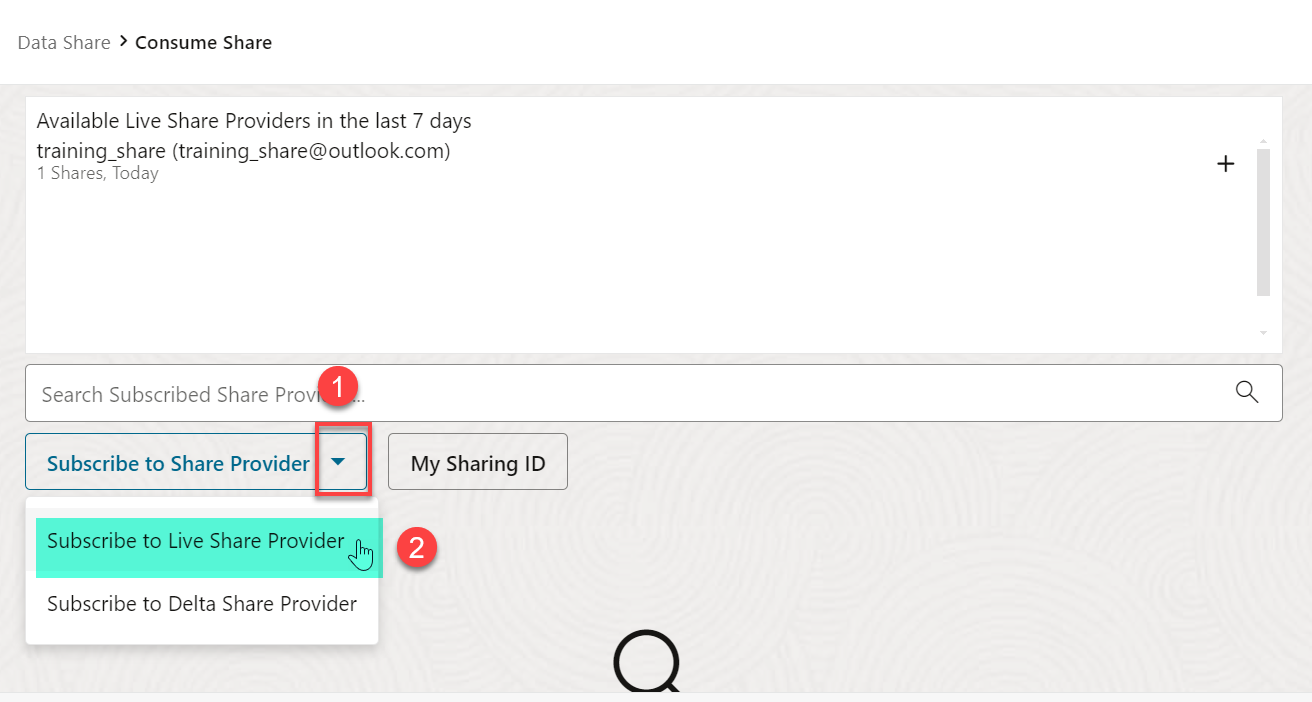
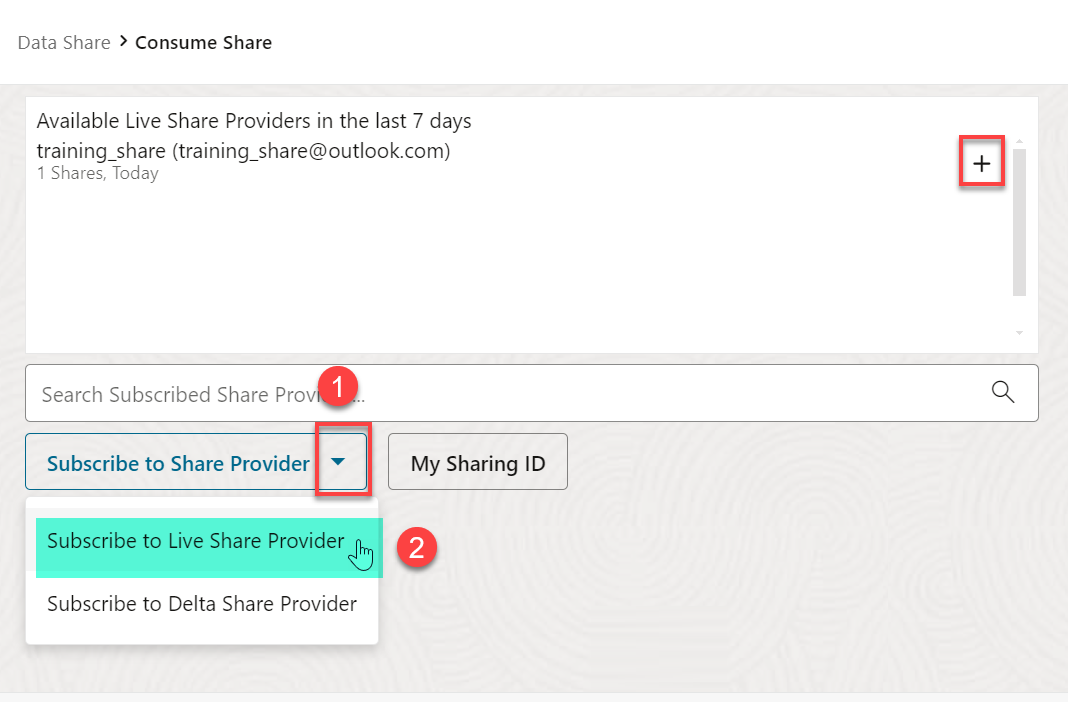
Anne's feedback

diff --git a/shared/adw-data-lake/setup-live-data-sharing-db-actions/consume-share/consume-share.md b/shared/adw-data-lake/setup-live-data-sharing-db-actions/consume-share/consume-share.md
@@ -37,11 +37,13 @@ Live data shared with you through data sharing is not automatically available fo
 
     ![click the consume share tile.](images/click-consume-share.png)
 
-2. Click the **+ Subscribe to Share Provider** drop-down list, and then click   the **Subscribe to Live Share Provider** option.
+2. Click the **+ Subscribe to Share Provider** drop-down list, and then click the **Subscribe to Live Share Provider** option.
 
     ![click Subscribe to Share Provider.](images/click-subscribe-provider.png)
 
     The **Subscribe to Share Provider** wizard is displayed.
+
+    >**Note:** The **Available Live Share Providers in the last 7 Days** section displays the list of available Live Share Providers in the last 7 days. You can click the **+** sign to subscribe to a Live Share.
 
 3. On the **Provider Settings** page 1 of the wizard, provide the following information:
 
@@ -66,17 +68,19 @@ Live data shared with you through data sharing is not automatically available fo
 
     ![The Link Cloud Object page is displayed.](images/link-data-page.png)
 
-## Task 3: Create an External Table over the Shared Table
+## Task 3: Create a View over the Shared Table
+
+In this task, you create a view based on the **`CUSTOMER_CONTACT`** table that was included in the live data share. A view is a logical table based on one or more tables or views. A view contains no data itself. The tables upon which a view is based are called base tables.
 
 1. Click the drop-down list and select the **`TRAINING_SHARE`**, if needed. You might need to click the **Refresh** icon to display the **`TRAINING_SHARE`**. Drill-down on the **`TRAINING_SHARE`** data share node to display the objects in it. Drag and drop the **`CUSTOMER_CONTACT`** shared table to add it to the data link job.
 
     ![Drag and drop the shared table onto the canvas.](images/drag-and-drop-share.png)
 
-2. The shared table is added to the data link job. When you run this job, a new **`CUSTOMER_CONTACT`** external table will be created on top of the **`CUSTOMER_CONTACT`** table that was shared with you. Before you create the external table, change its name from **`CUSTOMER_CONTACT`** to **`CUSTOMER_CONTACT_SHARE`**. Click the **Settings** icon (pencil).
+2. The shared table is added to the data link job. When you run this job, a new **`CUSTOMER_CONTACT`** view will be created on top of the **`CUSTOMER_CONTACT`** table that was shared with you. Before you create the view, change its name from **`CUSTOMER_CONTACT`** to **`CUSTOMER_CONTACT_SHARE`**. Click the **Settings** icon (pencil).
 
     ![The Link Cloud Object page is displayed.](images/shared-table-added.png)
 
-3. In the **Link Data from Cloud Store Location SHARE_PROVIDER.CUSTOMER\_CONTACT** dialog box, change the name of the external table that will be generated to **`CUSTOMER_CONTACT_SHARE`**, and then click **Close**.
+3. In the **Link Data from Cloud Store Location SHARE_PROVIDER.CUSTOMER\_CONTACT** dialog box, change the name of the view that will be generated to **`CUSTOMER_CONTACT_SHARE`**, and then click **Close**.
 
     ![Change the table name.](images/change-table-name.png)
 
@@ -84,7 +88,7 @@ Live data shared with you through data sharing is not automatically available fo
 
     ![The changed table name is displayed.](images/table-name-changed.png)
 
-4. Click **Start**. A **Start Link from Cloud Store** dialog box is displayed. Click **Run**. When the job completes successfully, a link icon is displayed. The **`CUSTOMER_CONTACT_SHARE`** external table is created.
+4. Click **Start**. A **Start Link from Cloud Store** dialog box is displayed. Click **Run**. When the job completes successfully, a link icon is displayed. The **`CUSTOMER_CONTACT_SHARE`** view is created.
 
     ![The link job is completed.](images/link-job-complete.png)
 

diff --git a/shared/adw-data-lake/setup-live-data-sharing-db-actions/create-share/create-share.md b/shared/adw-data-lake/setup-live-data-sharing-db-actions/create-share/create-share.md
@@ -12,7 +12,7 @@ Estimated Time: 15 minutes
 
 In this lab, you will:
 
-* Create a provider id that enables recipients on to identify you.
+* Create a provider id that enables recipients to identify you.
 * Create a new data share as the **`share_provider`** user.
 * Add the **`customer_contact`** table from the previous lab to the data share.
 * Create a new data share recipient named **`training_recipient`**.
